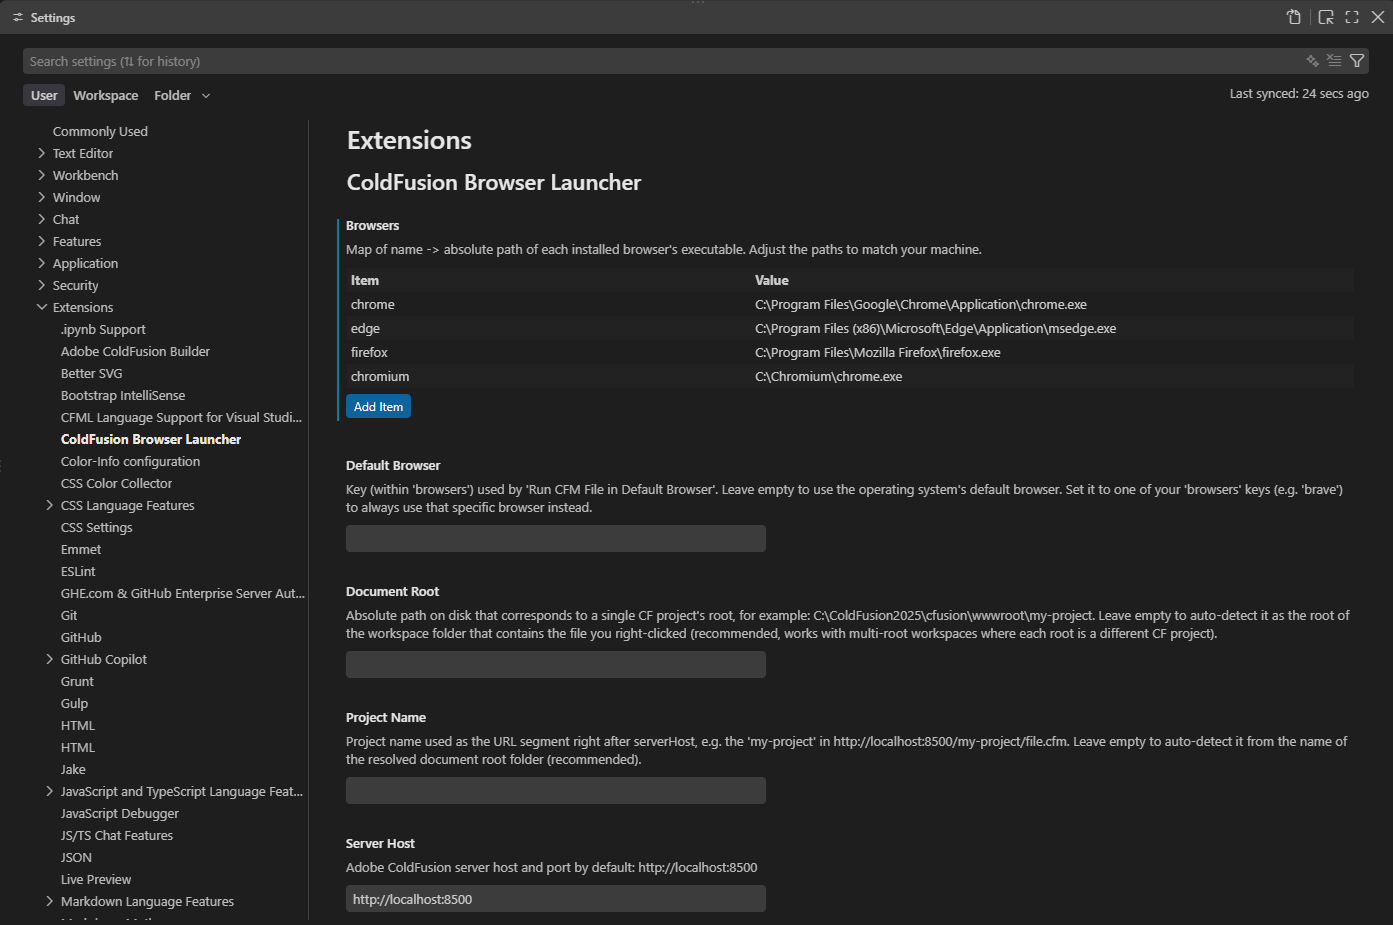
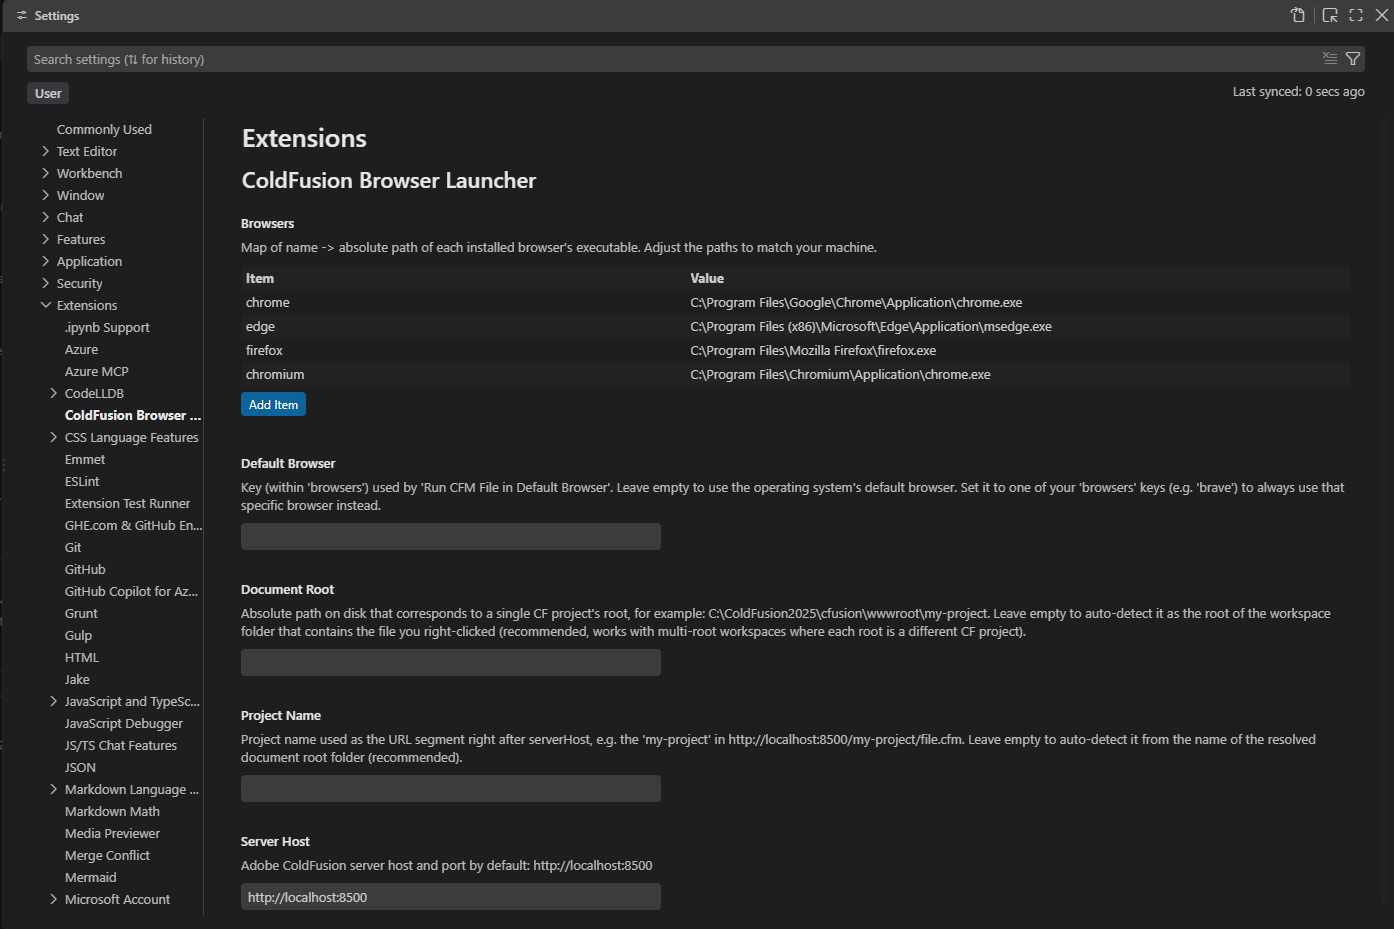
1.0.5 Minor improvements and fixes.

Changed region(s): [[0.0, 0.0, 1.0, 0.9989]]

diff --git a/README.md b/README.md
@@ -57,7 +57,7 @@ Go to `Settings` (Ctrl+,) and search for `ColdFusion Browser Launcher`, or edit 
     "chrome": "C:\\Program Files\\Google\\Chrome\\Application\\chrome.exe",
     "edge": "C:\\Program Files (x86)\\Microsoft\\Edge\\Application\\msedge.exe",
     "firefox": "C:\\Program Files\\Mozilla Firefox\\firefox.exe",
-    "chromium": "C:\\Chromium\\chrome.exe"
+    "chromium": "C:\\Program Files\\Chromium\\Application\\chrome.exe"
   }
 }
 ```

diff --git a/CHANGELOG.md b/CHANGELOG.md
@@ -4,13 +4,33 @@ All notable changes to the "ColdFusion Browser Launcher" extension will be docum
 
 ---
 
+## [1.0.5] - 2026-08-28
+
+### Changed
+ 
+- Minor improvements and fixes.
+
+---
+
+## [1.0.4] - 2026-08-28
+
+### Changed
+ 
+- Minor improvements and fixes.
+
+---
+
 ## [1.0.3] - 2026-08-28
+
+### Changed
  
 - Minor improvements and fixes.
 
 ---
 
 ## [1.0.2] - 2026-08-28
+
+### Changed
  
 - Minor improvements and fixes.
  
